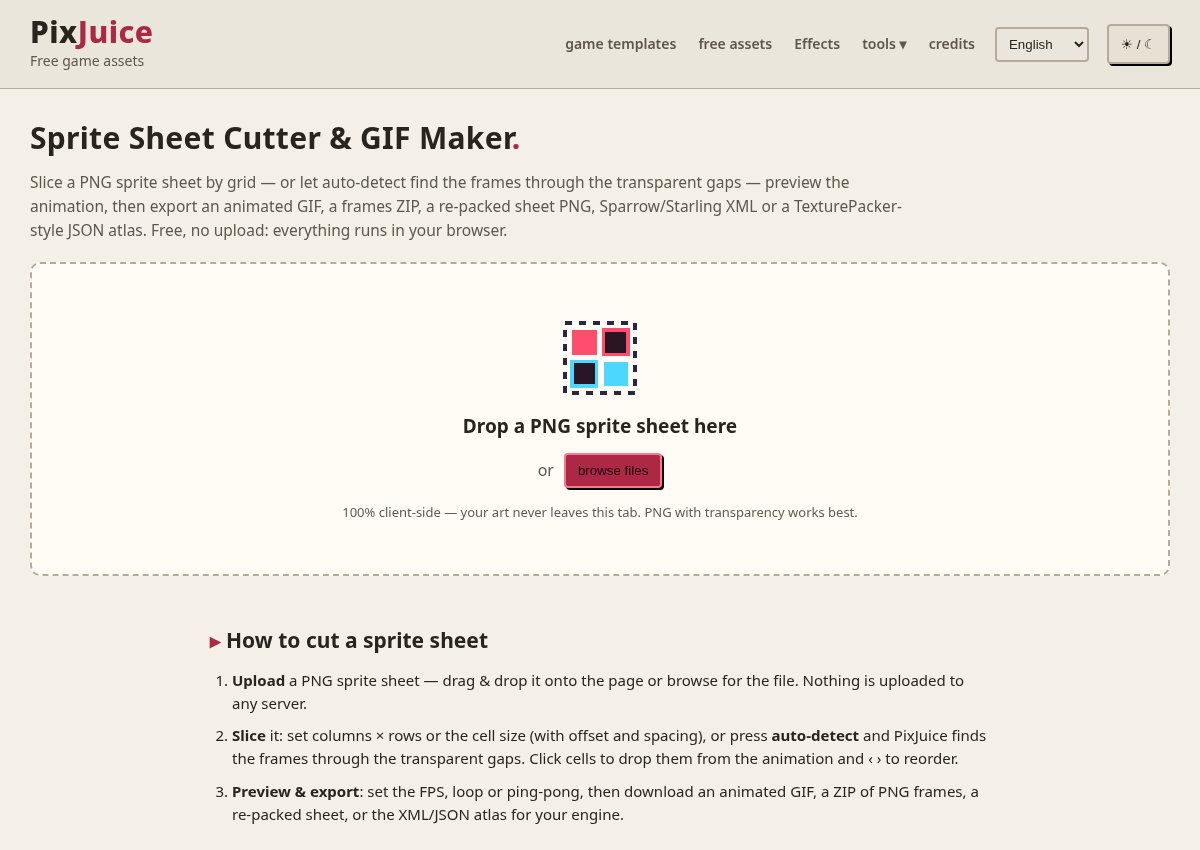
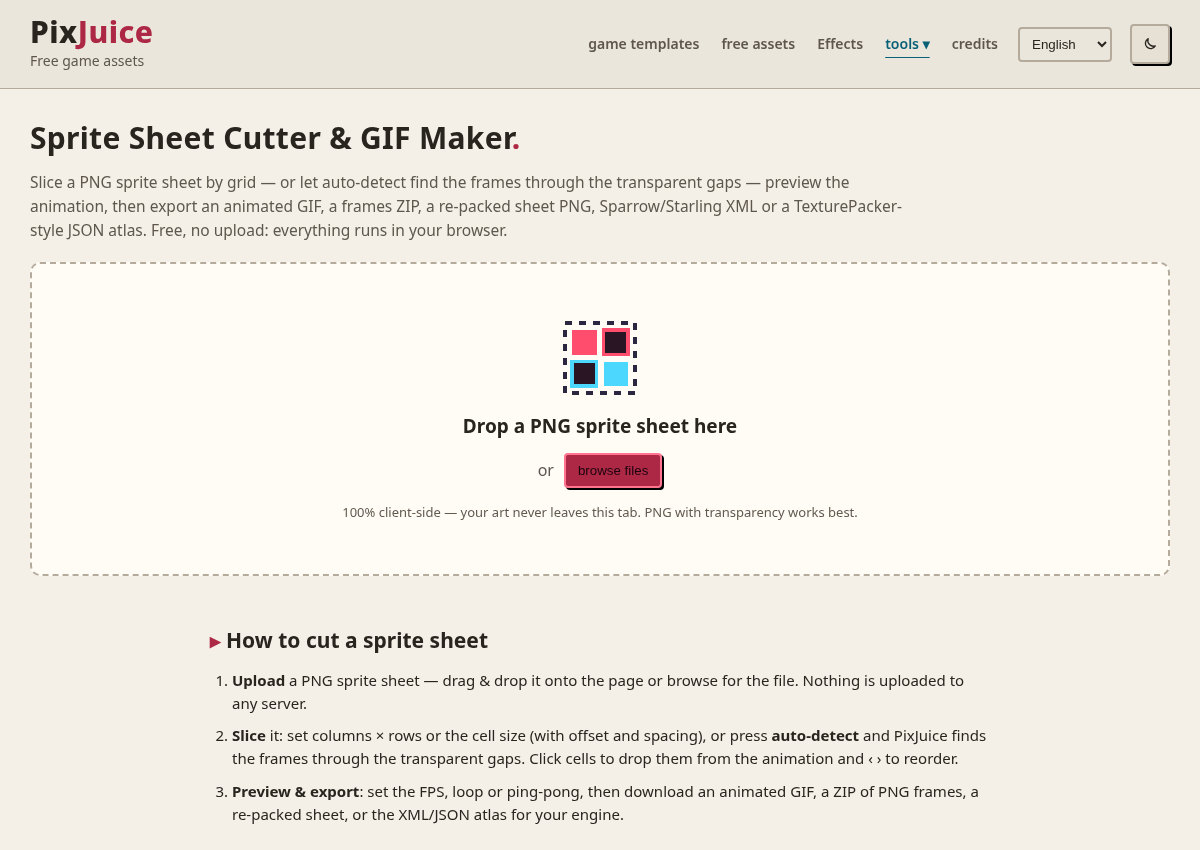
Fix homepage cards, nav highlights, and the assets empty state
Recapture entry-card screenshots from the top-left in Chinese and English, enrich the assets empty state, and stop the homepage from highlighting Effects.

diff --git a/src/lib/navmenu.ts b/src/lib/navmenu.ts
@@ -10,9 +10,9 @@ export function mountToolsMenu(): void {
   theme();matchMedia('(prefers-color-scheme: light)').addEventListener('change',theme);
   function render(){
     const l=getLocale(), prefix=l==='en'?'':'/'+l;
-    const path=location.pathname.replace(/^\/(zh|ja|ko|es)(?=\/)/,'');
+    let path=location.pathname.replace(/^\/(zh|ja|ko|es)(?=\/|$)/,'')||'/'; if(path!=='/'&&!path.endsWith('/'))path+='/'; const home=path==='/'; const toolPaths=['/image-to-pixel-art/','/normal-map/','/pixel-art-upscaler/','/sprite-sheet/','/editor/','/free-resources/']; const inTools=toolPaths.some(p=>path===p);
     const link=(href:string,label:string,current:boolean)=>`<a href="${prefix}${href}"${current?' aria-current="page" class="cur"':''}>${label}</a>`;
-    header.innerHTML=`<div class="head-in"><a class="brand" href="${prefix}/"><div><h1>Pix<em>Juice</em></h1><p class="sub">${labels[l][0]}</p></div></a><nav class="nav" aria-label="Main">${link('/templates/',t('nav.templates'),path.startsWith('/templates/'))}${link('/free-assets/',t('nav.assets'),path.startsWith('/free-assets/'))}${link('/#effects',labels[l][1],path==='/')}<details class="tools"><summary>${t('nav.tools')}</summary><div class="tools-menu">${[['/image-to-pixel-art/','nav.pixel'],['/normal-map/','nav.normal'],['/pixel-art-upscaler/','nav.upscale'],['/sprite-sheet/','nav.sheet'],['/editor/','nav.editor'],['/free-resources/','fr.h1']].map(([p,k])=>link(p,t(k),path===p)).join('')}</div></details>${link('/credits/',t('nav.credits'),path==='/credits/')}<select data-shared-lang="true" id="lang" class="lang" aria-label="Language">${LOCALES.map(x=>`<option value="${x.code}"${x.code===l?' selected':''}>${x.native}</option>`).join('')}</select><button class="btn theme-toggle" type="button" aria-label="${labels[l][2]}" title="${labels[l][2]}"><svg class="icon-sun" viewBox="0 0 24 24" width="18" height="18" aria-hidden="true"><circle cx="12" cy="12" r="4" fill="none" stroke="currentColor" stroke-width="1.8"/><path d="M12 3v2.2M12 18.8V21M3 12h2.2M18.8 12H21M5.6 5.6l1.6 1.6M16.8 16.8l1.6 1.6M18.4 5.6l-1.6 1.6M7.2 16.8l-1.6 1.6" fill="none" stroke="currentColor" stroke-width="1.8" stroke-linecap="round"/></svg><svg class="icon-moon" viewBox="0 0 24 24" width="18" height="18" aria-hidden="true"><path d="M19 14.5A7.5 7.5 0 0 1 9.5 5 7 7 0 1 0 19 14.5z" fill="none" stroke="currentColor" stroke-width="1.8" stroke-linejoin="round"/></svg></button></nav></div>`;
+    header.innerHTML=`<div class="head-in"><a class="brand" href="${prefix}/"><div><h1>Pix<em>Juice</em></h1><p class="sub">${labels[l][0]}</p></div></a><nav class="nav" aria-label="Main">${link('/templates/',t('nav.templates'),!home&&path.startsWith('/templates/'))}${link('/free-assets/',t('nav.assets'),!home&&path.startsWith('/free-assets/'))}${link('/#effects',labels[l][1],false)}<details class="tools"><summary${inTools?' class="cur" aria-current="true"':''}>${t('nav.tools')}</summary><div class="tools-menu">${toolPaths.map((p,i)=>link(p,t(['nav.pixel','nav.normal','nav.upscale','nav.sheet','nav.editor','fr.h1'][i]),path===p)).join('')}</div></details>${link('/credits/',t('nav.credits'),path==='/credits/')}<select data-shared-lang="true" id="lang" class="lang" aria-label="Language">${LOCALES.map(x=>`<option value="${x.code}"${x.code===l?' selected':''}>${x.native}</option>`).join('')}</select><button class="btn theme-toggle" type="button" aria-label="${labels[l][2]}" title="${labels[l][2]}"><svg class="icon-sun" viewBox="0 0 24 24" width="18" height="18" aria-hidden="true"><circle cx="12" cy="12" r="4" fill="none" stroke="currentColor" stroke-width="1.8"/><path d="M12 3v2.2M12 18.8V21M3 12h2.2M18.8 12H21M5.6 5.6l1.6 1.6M16.8 16.8l1.6 1.6M18.4 5.6l-1.6 1.6M7.2 16.8l-1.6 1.6" fill="none" stroke="currentColor" stroke-width="1.8" stroke-linecap="round"/></svg><svg class="icon-moon" viewBox="0 0 24 24" width="18" height="18" aria-hidden="true"><path d="M19 14.5A7.5 7.5 0 0 1 9.5 5 7 7 0 1 0 19 14.5z" fill="none" stroke="currentColor" stroke-width="1.8" stroke-linejoin="round"/></svg></button></nav></div>`;
     header.querySelector('button')!.addEventListener('click',()=>{const next=document.documentElement.dataset.theme==='light'?'dark':'light';try{localStorage.setItem('pixjuice-theme',next)}catch{}document.documentElement.dataset.theme=next;});
     header.querySelector('select')!.addEventListener('change',e=>{setLocale((e.target as HTMLSelectElement).value as typeof l)});
     document.querySelectorAll('.crumb, #ed-crumb').forEach(e=>(e as HTMLElement).hidden=true);

diff --git a/index.html b/index.html
@@ -63,7 +63,7 @@
     </div>
   </header>
 
-<section class="home-entries"><a class="home-entry" href="/templates/"><img src="/previews/templates.jpg" alt="" loading="lazy"><b data-i18n="nav.templates">Game templates</b><span data-i18n="home.entryTplD">Playable gacha, crate opening and save/load UI in a dark-gold Semi-Realistic look, plus a CC0 download.</span></a><a class="home-entry" href="/free-assets/"><img src="/previews/assets.jpg" alt="" loading="lazy"><b data-i18n="nav.assets">Free assets</b><span data-i18n="home.entryAssetsD">CC0 2D sprites and 3D models for commercial use. Preview, swap parts and download in the browser.</span></a><a class="home-entry" href="/#effects"><img src="/previews/effects.jpg" alt="" loading="lazy"><b data-i18n="home.entryEffects">Effects library</b><span data-i18n="home.entryEffectsD">Recolor, preview and export 244 pixel skill effects as sprite sheets, GIF and sound — free, in your browser.</span></a><a class="home-entry" href="/image-to-pixel-art/"><img src="/previews/pixel.jpg" alt="" loading="lazy"><b data-i18n="home.toolPa">pixel</b><span data-i18n="home.toolPaD">Preview and create in your browser.</span></a><a class="home-entry" href="/normal-map/"><img src="/previews/normal.jpg" alt="" loading="lazy"><b data-i18n="home.toolNm">normal</b><span data-i18n="home.toolNmD">Preview and create in your browser.</span></a><a class="home-entry" href="/pixel-art-upscaler/"><img src="/previews/upscale.jpg" alt="" loading="lazy"><b data-i18n="home.toolUp">upscale</b><span data-i18n="home.toolUpD">Preview and create in your browser.</span></a><a class="home-entry" href="/sprite-sheet/"><img src="/previews/sheet.jpg" alt="" loading="lazy"><b data-i18n="home.toolSh">sheet</b><span data-i18n="home.toolShD">Preview and create in your browser.</span></a></section>
+<section class="home-entries"><a class="home-entry" href="/templates/"><img src="/previews/en/templates.jpg" data-preview="templates" alt="" loading="lazy"><b data-i18n="nav.templates">Game templates</b><span data-i18n="home.entryTplD">Playable gacha, crate opening and save/load UI in a dark-gold Semi-Realistic look, plus a CC0 download.</span></a><a class="home-entry" href="/free-assets/"><img src="/previews/en/assets.jpg" data-preview="assets" alt="" loading="lazy"><b data-i18n="nav.assets">Free assets</b><span data-i18n="home.entryAssetsD">CC0 2D sprites and 3D models for commercial use. Preview, swap parts and download in the browser.</span></a><a class="home-entry" href="/#effects"><img src="/previews/en/effects.jpg" data-preview="effects" alt="" loading="lazy"><b data-i18n="home.entryEffects">Effects library</b><span data-i18n="home.entryEffectsD">Recolor, preview and export 244 pixel skill effects as sprite sheets, GIF and sound — free, in your browser.</span></a><a class="home-entry" href="/image-to-pixel-art/"><img src="/previews/en/pixel.jpg" data-preview="pixel" alt="" loading="lazy"><b data-i18n="home.toolPa">pixel</b><span data-i18n="home.toolPaD">Preview and create in your browser.</span></a><a class="home-entry" href="/normal-map/"><img src="/previews/en/normal.jpg" data-preview="normal" alt="" loading="lazy"><b data-i18n="home.toolNm">normal</b><span data-i18n="home.toolNmD">Preview and create in your browser.</span></a><a class="home-entry" href="/pixel-art-upscaler/"><img src="/previews/en/upscale.jpg" data-preview="upscale" alt="" loading="lazy"><b data-i18n="home.toolUp">upscale</b><span data-i18n="home.toolUpD">Preview and create in your browser.</span></a><a class="home-entry" href="/sprite-sheet/"><img src="/previews/en/sheet.jpg" data-preview="sheet" alt="" loading="lazy"><b data-i18n="home.toolSh">sheet</b><span data-i18n="home.toolShD">Preview and create in your browser.</span></a></section>
   <div class="bar" id="effects">
     <div class="bar-in">
       <div class="chips" id="chips" role="toolbar" aria-label="Effect categories" data-i18n-aria="home.catsAria"></div>

diff --git a/src/templates/templates.css b/src/templates/templates.css
@@ -504,5 +504,8 @@ a.fa-file:hover {
 .fa-parts{margin-top:24px;padding-top:18px;border-top:1px solid #625333}.fa-parts h2{color:#dfc181;margin:0 0 14px}.fa-outfit-toolbar{display:flex;gap:10px;flex-wrap:wrap}.fa-parts select{padding:8px;background:#191b17;color:#eadfc6;border:1px solid #625333;border-radius:4px;max-width:100%}.fa-part{display:flex;gap:12px;margin:12px 0;align-items:center}.fa-part img{width:64px;height:64px;object-fit:cover;border:1px solid #625333;border-radius:6px}.fa-part>div{display:grid;grid-template-columns:1fr 1.5fr;gap:6px;min-width:0;flex:1}.fa-part strong{align-self:center}.fa-part a{font-size:11px;grid-column:2;text-align:center;padding:5px}.fa-part.is-blocked{opacity:.45}.fa-parts>.tpl-btn{margin:8px 8px 0 0;font-size:12px}.fa-model-wrap:has([data-animation-time]) .fa-model{height:440px}
 .fa-parts .tpl-btn{background:#262d25;border-color:#625333;color:#eadfc6}.fa-parts .tpl-btn-accent{background:#aaa078;color:#121610}.fa-parts .tpl-btn:hover{border-color:#dfc181}.fa-part select{min-width:0;width:100%}:root[data-theme="light"] .fa-parts{background:#eee7d8;padding:18px;border:1px solid #b3a277;border-radius:6px}:root[data-theme="light"] .fa-parts h2{color:#746031}
 
-.fa-empty { margin:48px 0 72px; text-align:center; font-size:18px; line-height:1.6; color:var(--text); }
-.fa-toolbar[hidden], .fa-search[hidden], .fa-empty[hidden] { display:none; }
+.fa-empty { display:flex; flex-direction:column; align-items:center; gap:14px; margin:24px 0 64px; padding:36px 28px 40px; border:1px solid var(--line); border-radius:16px; background:var(--panel); text-align:center; }
+.fa-empty-art { width:min(100%, 520px); height:auto; color:var(--acc2); }
+.fa-empty-title { margin:0; font-size:22px; font-weight:650; color:var(--text); }
+.fa-empty-lede { margin:0; max-width:36em; color:var(--dim); font-size:15px; line-height:1.65; }
+.fa-toolbar[hidden], .fa-search[hidden], .fa-empty[hidden], .fa-empty-lede[hidden], .fa-empty-art[hidden] { display:none; }

diff --git a/free-assets/index.html b/free-assets/index.html
@@ -105,7 +105,23 @@
   <section class="tpl-sec">
     <div class="fa-toolbar" id="fa-filters" role="toolbar" aria-label="Filter assets"></div>
     <div class="fa-grid" id="fa-grid"></div>
-    <p class="fa-empty" id="fa-empty" hidden data-i18n="fa.emptyBatch">The first Semi-Realistic assets are in production.</p>
+    <div class="fa-empty" id="fa-empty" hidden>
+      <svg class="fa-empty-art" viewBox="0 0 520 200" role="img" aria-hidden="true">
+        <g fill="none" stroke="currentColor" stroke-width="1.6" stroke-linejoin="round" stroke-linecap="round">
+          <rect x="24" y="28" width="140" height="144" rx="14" stroke-dasharray="5 6" opacity=".7"/>
+          <path d="M54 128h80v20H54zM62 86l32-28 32 28v42H62z" opacity=".95"/>
+          <rect x="190" y="28" width="140" height="144" rx="14" stroke-dasharray="5 6" opacity=".7"/>
+          <circle cx="260" cy="78" r="18"/>
+          <path d="M230 148c4-28 18-42 30-42s26 14 30 42"/>
+          <rect x="356" y="28" width="140" height="144" rx="14" stroke-dasharray="5 6" opacity=".7"/>
+          <path d="M384 128h84l-10-28H398z"/>
+          <circle cx="404" cy="128" r="8"/><circle cx="448" cy="128" r="8"/>
+          <path d="M392 100h40"/>
+        </g>
+      </svg>
+      <p class="fa-empty-title" data-i18n="fa.emptyBatch">The first Semi-Realistic assets are in production.</p>
+      <p class="fa-empty-lede" data-i18n="fa.emptyBatchLede">Dungeon props, a knight and vehicles are in the works, and will appear here when they are ready.</p>
+    </div>
     <p class="body" id="fa-error" hidden data-i18n="fa.loadErr">Couldn't load the asset list. Refresh to retry.</p>
   </section>
 

diff --git a/src/pages/assets.ts b/src/pages/assets.ts
@@ -84,11 +84,21 @@ function render() {
   for (const group of groups) grid.appendChild(assetCard(group.find(a=>a.palette===query.toLowerCase()||a.style_tier===query.toLowerCase())||group[0]));
   if (empty) {
     empty.hidden = groups.length > 0;
-    empty.textContent = published.length === 0 ? t("fa.emptyBatch") : t("fa.emptySearch");
-    empty.setAttribute("data-i18n", published.length === 0 ? "fa.emptyBatch" : "fa.emptySearch");
+    const title = empty.querySelector<HTMLElement>(".fa-empty-title");
+    const lede = empty.querySelector<HTMLElement>(".fa-empty-lede");
+    const art = empty.querySelector<HTMLElement>(".fa-empty-art");
+    const batch = published.length === 0;
+    if (title) {
+      title.textContent = t(batch ? "fa.emptyBatch" : "fa.emptySearch");
+      title.setAttribute("data-i18n", batch ? "fa.emptyBatch" : "fa.emptySearch");
+    }
+    if (lede) {
+      lede.hidden = !batch;
+      if (batch) lede.textContent = t("fa.emptyBatchLede");
+    }
+    if (art) art.hidden = !batch;
   }
   applyStaticText(grid);
-  if (empty && !empty.hidden) applyStaticText(empty.parentElement || empty);
 }
 
 function renderFilters() {

diff --git a/src/lib/locales/ko.ts b/src/lib/locales/ko.ts
@@ -698,6 +698,7 @@ const ko: Partial<Dict> = {
     "soonBody": "제작 중입니다——공개되면 이 페이지에서 미리보기, 다운로드, 라이선스를 제공합니다.",
     "freeCommercial": "CC0 1.0",
     "licenseNotice": "CC0 1.0 Universal — 상업적 사용 가능, 출처 표시 불필요.",
+    "emptyBatchLede": '던전 소품, 기사, 탈것을 제작 중이며, 완료되는 대로 여기에 올라갑니다.',
     "emptyBatch": '첫 번째 세미 리얼리스틱 에셋을 제작하고 있습니다.',
     "emptySearch": '조건에 맞는 에셋이 없습니다.',
     "loadErr": "에셋 목록을 불러오지 못했습니다. 새로고침 후 다시 시도해 주세요.",

diff --git a/src/lib/locales/ja.ts b/src/lib/locales/ja.ts
@@ -698,6 +698,7 @@ const ja: Partial<Dict> = {
     "soonBody": "制作中——公開時にこのページでプレビュー・ダウンロード・ライセンスを提供します。",
     "freeCommercial": "CC0 1.0",
     "licenseNotice": "CC0 1.0 Universal — 商用利用可能・表記不要。",
+    "emptyBatchLede": 'ダンジョンの小物、騎士、乗り物を制作中です。でき次第ここに公開します。',
     "emptyBatch": '最初のセミリアル素材を制作中です。',
     "emptySearch": '条件に一致する素材はありません。',
     "loadErr": "アセット一覧を読み込めませんでした。更新して再試行してください。",

diff --git a/src/lib/i18n.ts b/src/lib/i18n.ts
@@ -148,7 +148,15 @@ export function applyStaticText(root: ParentNode = document): void {
   root.querySelectorAll<HTMLElement>("[data-i18n-aria]").forEach((e) => {
     e.setAttribute("aria-label", t(e.dataset.i18nAria!));
   });
+  root.querySelectorAll<HTMLImageElement>("img[data-preview]").forEach((img) => {
+    const name = img.dataset.preview;
+    if (!name) return;
+    const lang = locale === "zh" ? "zh" : "en";
+    const next = `/previews/${lang}/${name}.jpg`;
+    if (img.getAttribute("src") !== next) img.src = next;
+  });
 }
+
 
 /** Wire the header's <select id="lang"> (present on every page's raw HTML, English-default). */
 export function mountLangSwitcher(): void {

diff --git a/src/lib/locales/es.ts b/src/lib/locales/es.ts
@@ -698,6 +698,7 @@ const es: Partial<Dict> = {
     "soonBody": "Este recurso está en producción — cuando salga, aquí estarán su previsualización, descargas y licencia.",
     "freeCommercial": "CC0 1.0",
     "licenseNotice": "CC0 1.0 Universal — uso comercial sin atribución.",
+    "emptyBatchLede": 'Los accesorios de mazmorra, un caballero y los vehículos están en preparación y aparecerán aquí cuando estén listos.',
     "emptyBatch": 'El primer lote de recursos semirrealistas está en producción.',
     "emptySearch": 'Ningún recurso coincide con esa búsqueda.',
     "loadErr": "No se pudo cargar la lista de recursos. Recarga para reintentar.",

diff --git a/src/lib/locales/en.ts b/src/lib/locales/en.ts
@@ -698,6 +698,7 @@ const en = {
     "soonBody": "This asset is in production — the entry goes live here with previews, downloads and license once it ships.",
     "freeCommercial": "CC0 1.0",
     "licenseNotice": "CC0 1.0 Universal — commercial use, no attribution required.",
+    "emptyBatchLede": 'Dungeon props, a knight and vehicles are in the works, and will appear here when they are ready.',
     "emptyBatch": 'The first Semi-Realistic assets are in production.',
     "emptySearch": 'No assets match that search.',
     "loadErr": "Couldn't load the asset list. Refresh to retry.",

diff --git a/src/lib/locales/zh.ts b/src/lib/locales/zh.ts
@@ -698,6 +698,7 @@ const zh: Partial<Dict> = {
     "soonBody": "素材制作中——完成后会在此提供预览、下载与许可。",
     "freeCommercial": "CC0 1.0",
     "licenseNotice": "CC0 1.0 Universal — 可商用、无需署名。",
+    "emptyBatchLede": '地牢道具、骑士和载具正在制作，完成后会在这里上架。',
     "emptyBatch": '第一批半写实素材制作中',
     "emptySearch": '没有符合条件的素材。',
     "loadErr": "素材列表加载失败，刷新重试。",

diff --git a/editor/index.html b/editor/index.html
@@ -46,7 +46,7 @@
         </select>
         <a href="/" data-i18n="nav.backCatalog">← catalog</a>
         <details class="tools">
-          <summary data-i18n="nav.tools">tools ▾</summary>
+          <summary class="cur" aria-current="true" data-i18n="nav.tools">tools ▾</summary>
           <div class="tools-menu">
             <a href="/image-to-pixel-art/" data-i18n="nav.pixel">image → pixel art</a>
             <a href="/normal-map/" data-i18n="nav.normal">normal map</a>
